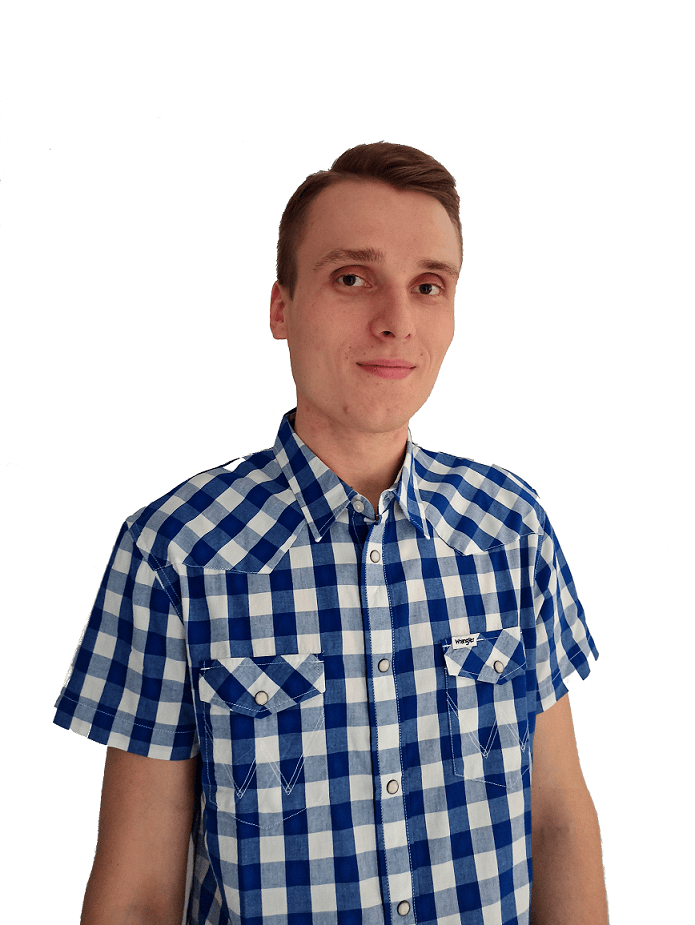
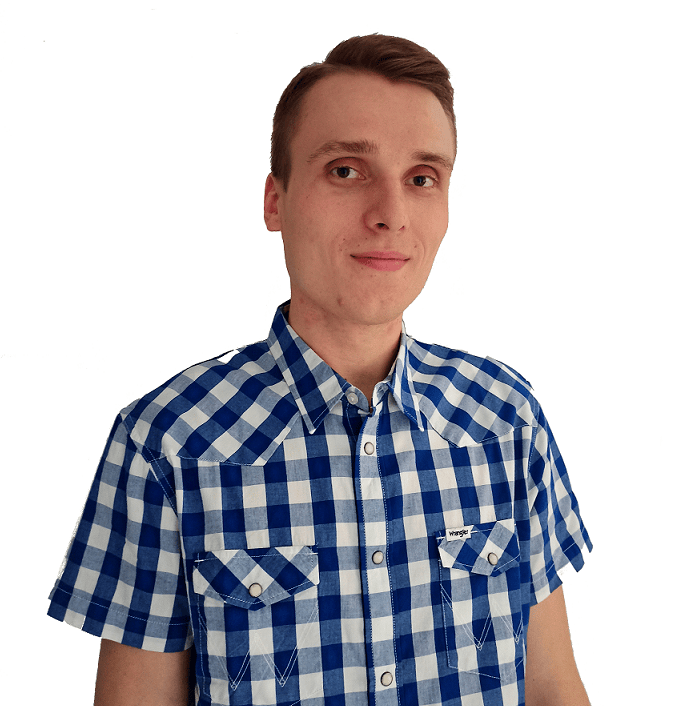
Configured about me view.

diff --git a/src/components/AboutMeBox/AboutMeBox.tsx b/src/components/AboutMeBox/AboutMeBox.tsx
@@ -1,17 +1,52 @@
-import React, {useContext} from 'react';
-import '../ComponentsStyles.css';
-import {LanguageContext} from "../../contexts/language-context";
+import React, { useContext } from "react";
+import "../ComponentsStyles.css";
+import { LanguageContext } from "../../contexts/language-context";
+import { SectionHeader } from "../../common/SectionHeader/SectionHeader";
+import "./AboutMeBox.css";
 
 export const AboutMeBox = () => {
-    const {desc} = useContext(LanguageContext);
+  const { desc } = useContext(LanguageContext);
 
-    return(
-        <>
-            <div className='view-box'>
-                <h1 className='view-header'>O mnie</h1>
-                <p>Od zawsze interesowałem się technologią i uczestniczeniem w procesie tworzenia. Programowanie sprawia mi ogromną satysfakcję, a specyfika pracy programisty to coś, co idealnie wpisuje się w moje predyspozycje. Od zawsze interesowałem się technologią i uczestniczeniem w procesie tworzenia. Programowanie sprawia mi ogromną satysfakcję, a specyfika pracy programisty to coś, co idealnie wpisuje się w moje predyspozycje. Od zawsze interesowałem się technologią i uczestniczeniem w procesie tworzenia. Programowanie sprawia mi ogromną satysfakcję, a specyfika pracy programisty to coś, co idealnie wpisuje się w moje predyspozycje. Od zawsze interesowałem się technologią i uczestniczeniem w procesie tworzenia. Programowanie sprawia mi ogromną satysfakcję, a specyfika pracy programisty to coś, co idealnie wpisuje się w moje predyspozycje. </p>
-            </div>
-        </>
-
-    )
-}
+  return (
+    <>
+      <SectionHeader text="O MNIE" />
+      <img
+        className="author-photo"
+        src="images/myphoto.png"
+        alt="Photo author"
+      />
+      <div className="about-me-box-sections">
+        <div className="about-me-one-section">
+          <div className="one-section-header">PROGRAMOWANIE</div>
+          <article className="one-section-text">
+            Pisaniem kodu interesowałem się już w szkole podstawowej. Swoją
+            poważną przygodę z programowaniem rozpocząłem wiosną 2021 roku. W
+            swojej pracy wykorzystuję technologie ekosystemu JavaScript:
+            TypeScript, React.js, Node.js, NestJS, Express.js, oraz relacyjne i
+            nierelacyjne bazy danych: MySQL i MongoDB. Jestem otwarty na ciekawe
+            i wymagające zadania, które udoskonalą moje umiejętności.
+          </article>
+        </div>
+        <div className="about-me-one-section orange-border">
+          <div className="one-section-header orange-section">PRYWATNIE</div>
+          <article className="one-section-text">
+            Programowanie jest czymś co sprawia mi ogromną satysfakcje, a
+            specyfika pracy programisty to coś, co idealnie wpisuje się w moje
+            predyspozycje zawodowe. Oderwaniem od pracy jest dla mnie gra na
+            gitarze, wycieczki rowerowe oraz spędzanie czasu z rodziną.
+          </article>
+        </div>
+        <div className="about-me-one-section">
+          <div className="one-section-header">SPOŁECZNIE</div>
+          <article className="one-section-text">
+            Zostałem frontend developerem w zespole tworzącym projekty społeczne
+            dla organizacji NeuroN Foundation. Nasz zespół składa się z ponad
+            pięćdziesięciu specjalistów z różnych obszarów IT. Działalność w
+            fundacji umożliwia mi łączenie pomocy innym ludziom z rozwojem
+            swojej pasji, jaką jest programowanie.
+          </article>
+        </div>
+      </div>
+    </>
+  );
+};

diff --git a/src/components/AboutMeBox/AboutMeBox.css b/src/components/AboutMeBox/AboutMeBox.css
@@ -1,0 +1,89 @@
+.about-me-box-sections{
+    margin: 50px 0 50px;
+    display: flex;
+    flex-direction: row;
+    justify-content: center;
+    width: 100vw;
+    font-size: 1.5rem;
+    font-weight: 570;
+}
+
+.author-photo{
+    height: 255px;
+    border-radius: 255px;
+    filter: drop-shadow(0px 0px 3px #445964);
+}
+
+.about-me-one-section{
+    border: 2px solid #445964;
+    margin: 0 20px 0 20px;
+    width: calc((100vw/3) - 120px);
+    max-width: 500px;
+    border-radius: 15px;
+}
+
+.one-section-header{
+    height: 60px;
+    width: 100%;
+    border-radius: 10px 10px 0 0;
+    background-color: #445964;
+    color: #ffffff;
+    display: flex;
+    align-items: center;
+    justify-content: center;
+}
+
+.one-section-text{
+    margin: 25px 20px 25px 20px;
+    font-weight: 400;
+    width: calc(100% - 40px);
+    line-height: 1.4;
+    font-size: 1.3rem;
+    display: flex;
+    align-items: center;
+    justify-content: center;
+    height: calc(100% - 110px);
+}
+
+.orange-section{
+    background-color: #F48226;
+    border-color: #F48226;
+}
+
+.orange-border{
+    border-color: #F48226;
+}
+
+@media only screen and (max-width:1900px) {
+    .about-me-one-section{
+        margin: 0 7px 0 7px;
+        width: calc((100vw/3) - 42px);
+    }
+}
+
+@media only screen and (max-width:1400px) {
+    .about-me-box-sections{
+        flex-direction: column;
+        align-items: center;
+        justify-content: center;
+    }
+
+    .about-me-one-section{
+        border: 2px solid #445964;
+        margin: 0 20px 20px 20px;
+        width: calc(100vh - 120px);
+        max-width: 750px;
+    }
+}
+
+@media only screen and (max-width:900px) {
+    .about-me-one-section{
+        width: calc(100vw - 50px);
+    }
+}
+
+@media only screen and (max-width:350px) {
+    .about-me-box-sections{
+        font-size: 1.2rem;
+    }
+}

diff --git a/src/common/SectionHeader/SectionHeader.css b/src/common/SectionHeader/SectionHeader.css
@@ -7,9 +7,44 @@
 
 .section-header{
     font-size: 3.1rem;
-    border-bottom: 3px solid #F48226;
-    margin-top: 150px;
+    border-bottom: 4px solid #F48226;
+    margin: 150px 0 50px;
     padding: 0 20px 0 20px;
-    height: 70px;
+    height: 65px;
     text-align: center;
 }
+
+@media only screen and (max-width:700px) {
+    .section-header{
+        font-size: 2.5rem;
+        height: 50px;
+    }
+}
+
+@media only screen and (max-width:550px) {
+    .section-header{
+        font-size: 1.8rem;
+        height: 35px;
+        border-bottom: 3px solid #F48226;
+    }
+}
+
+@media only screen and (max-width:400px) {
+    .section-header{
+        font-size: 1.6rem;
+        height: 30px;
+        border-bottom: 3px solid #F48226;
+        padding: 0 10px 0 10px;
+    }
+}
+
+@media only screen and (max-width:330px) {
+    .section-header{
+        font-size: 1.4rem;
+        height: 25px;
+        border-bottom: 3px solid #F48226;
+        padding: 0 0 0 0;
+    }
+}
+
+
